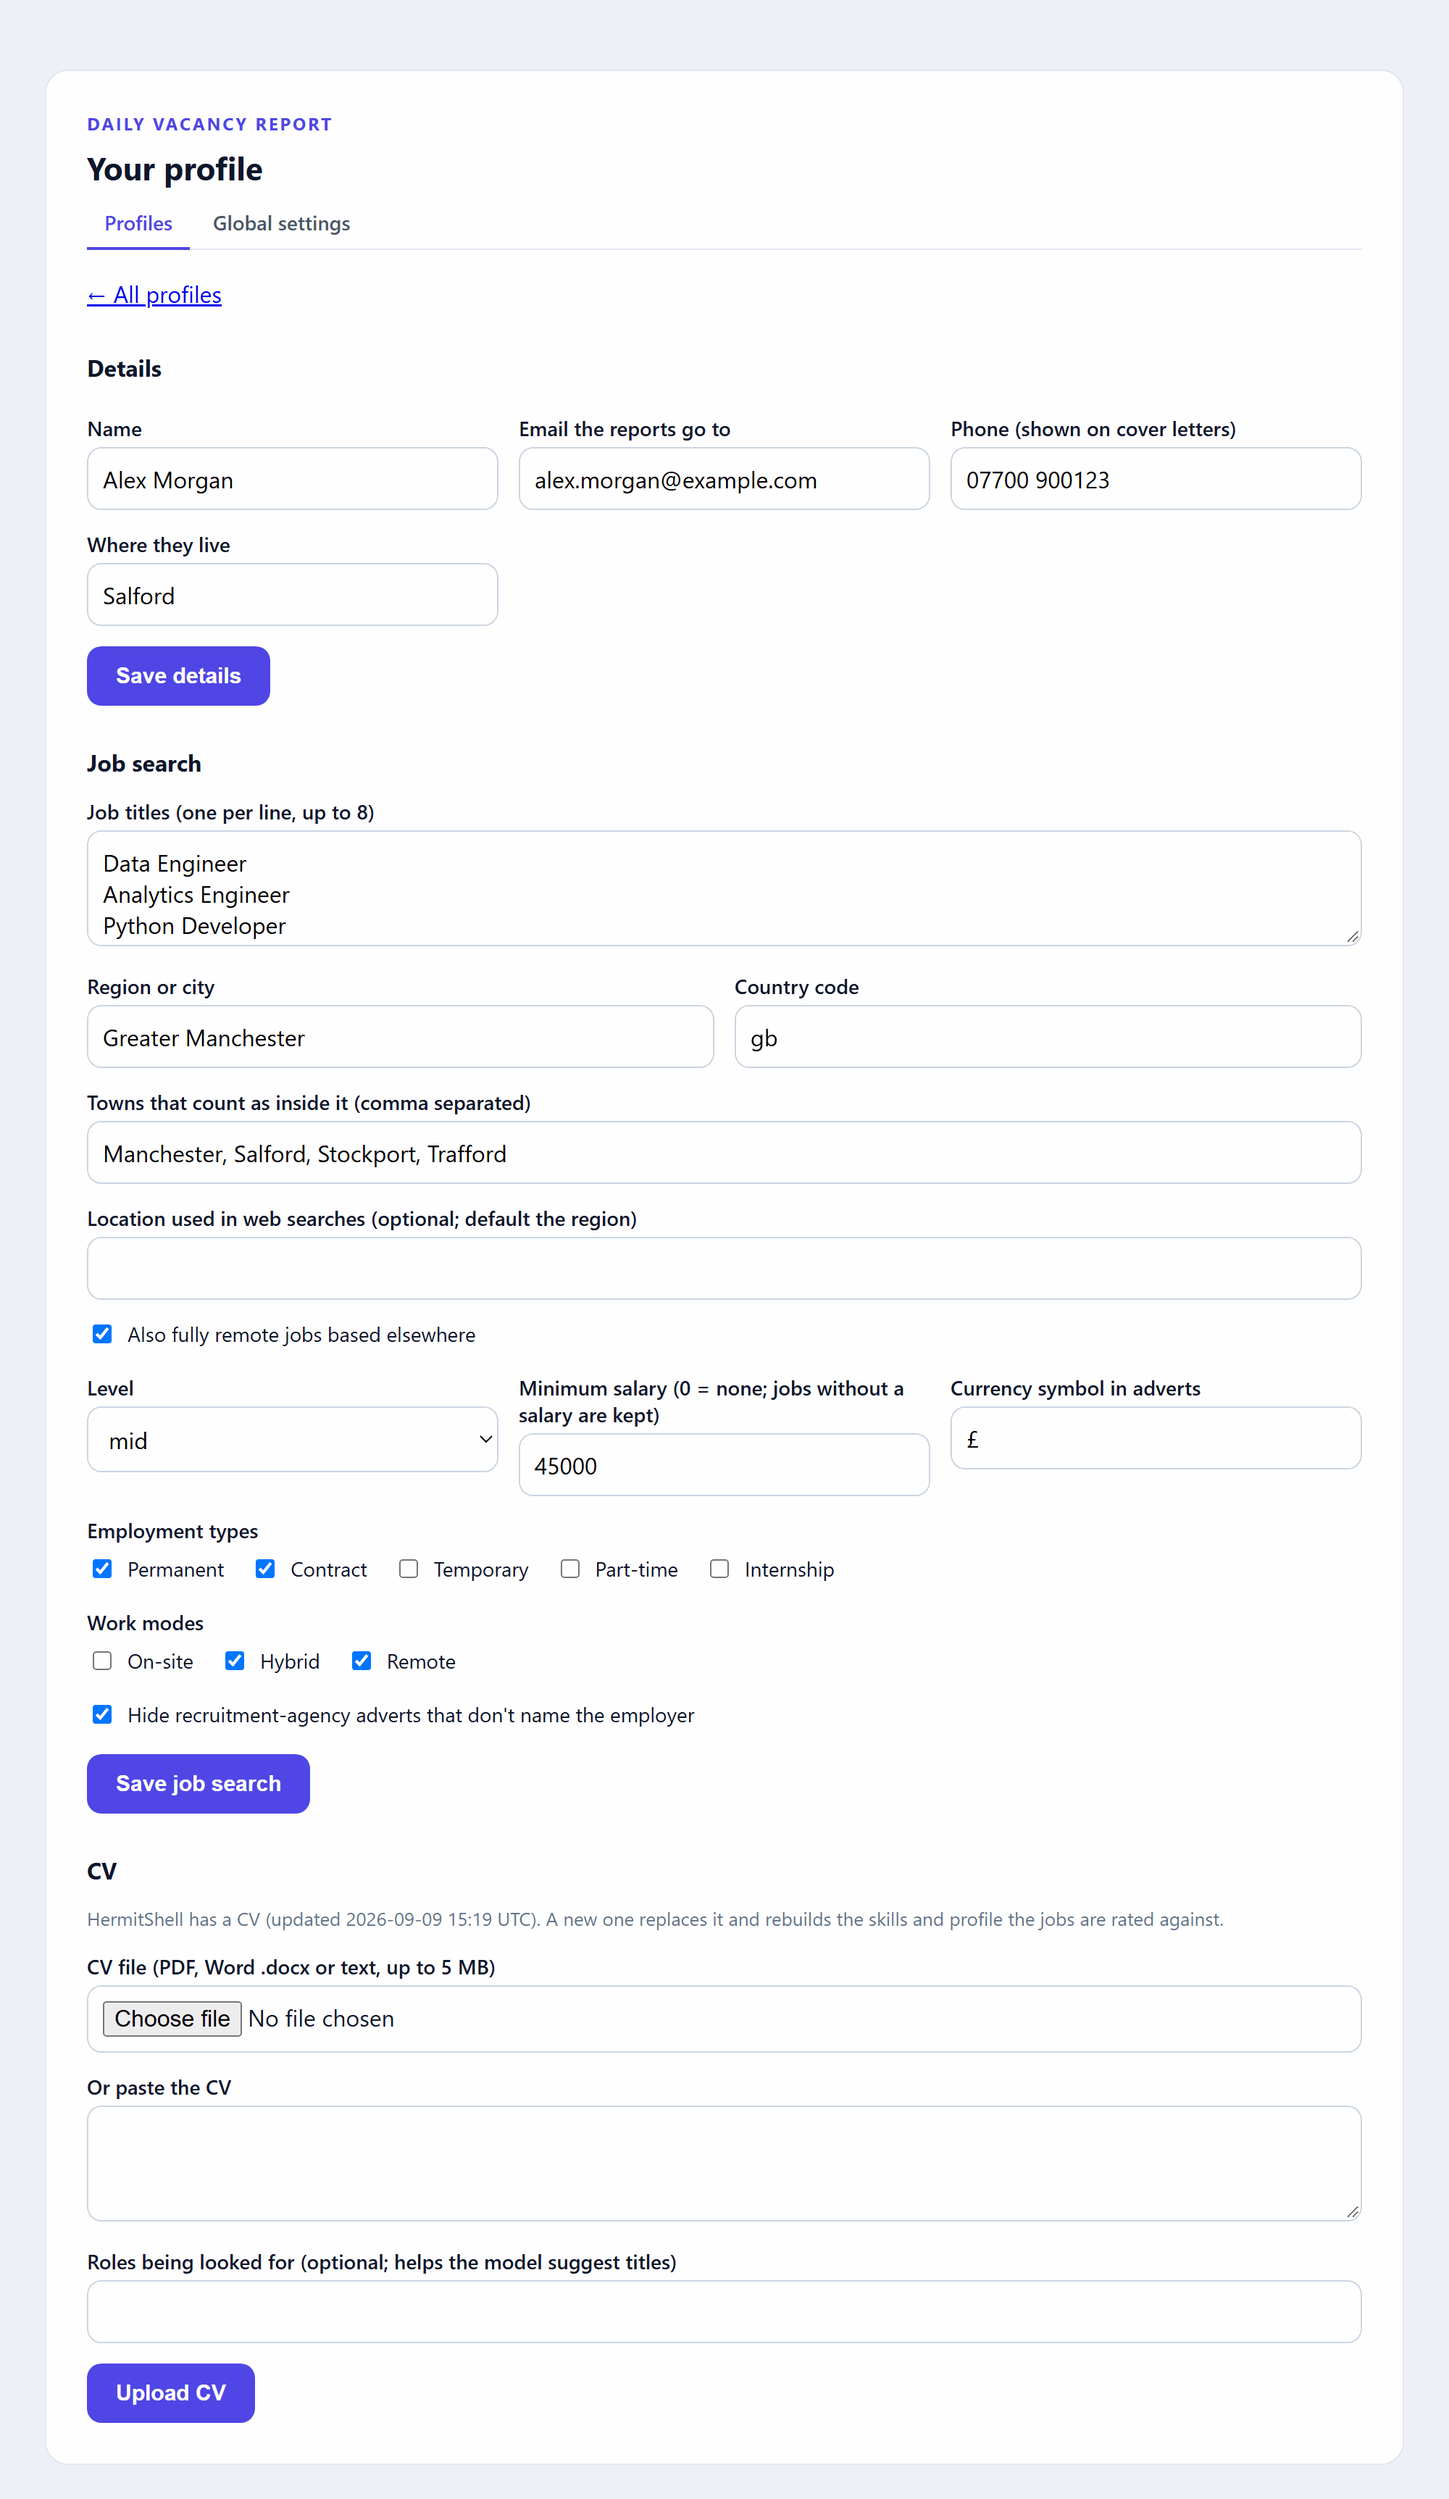
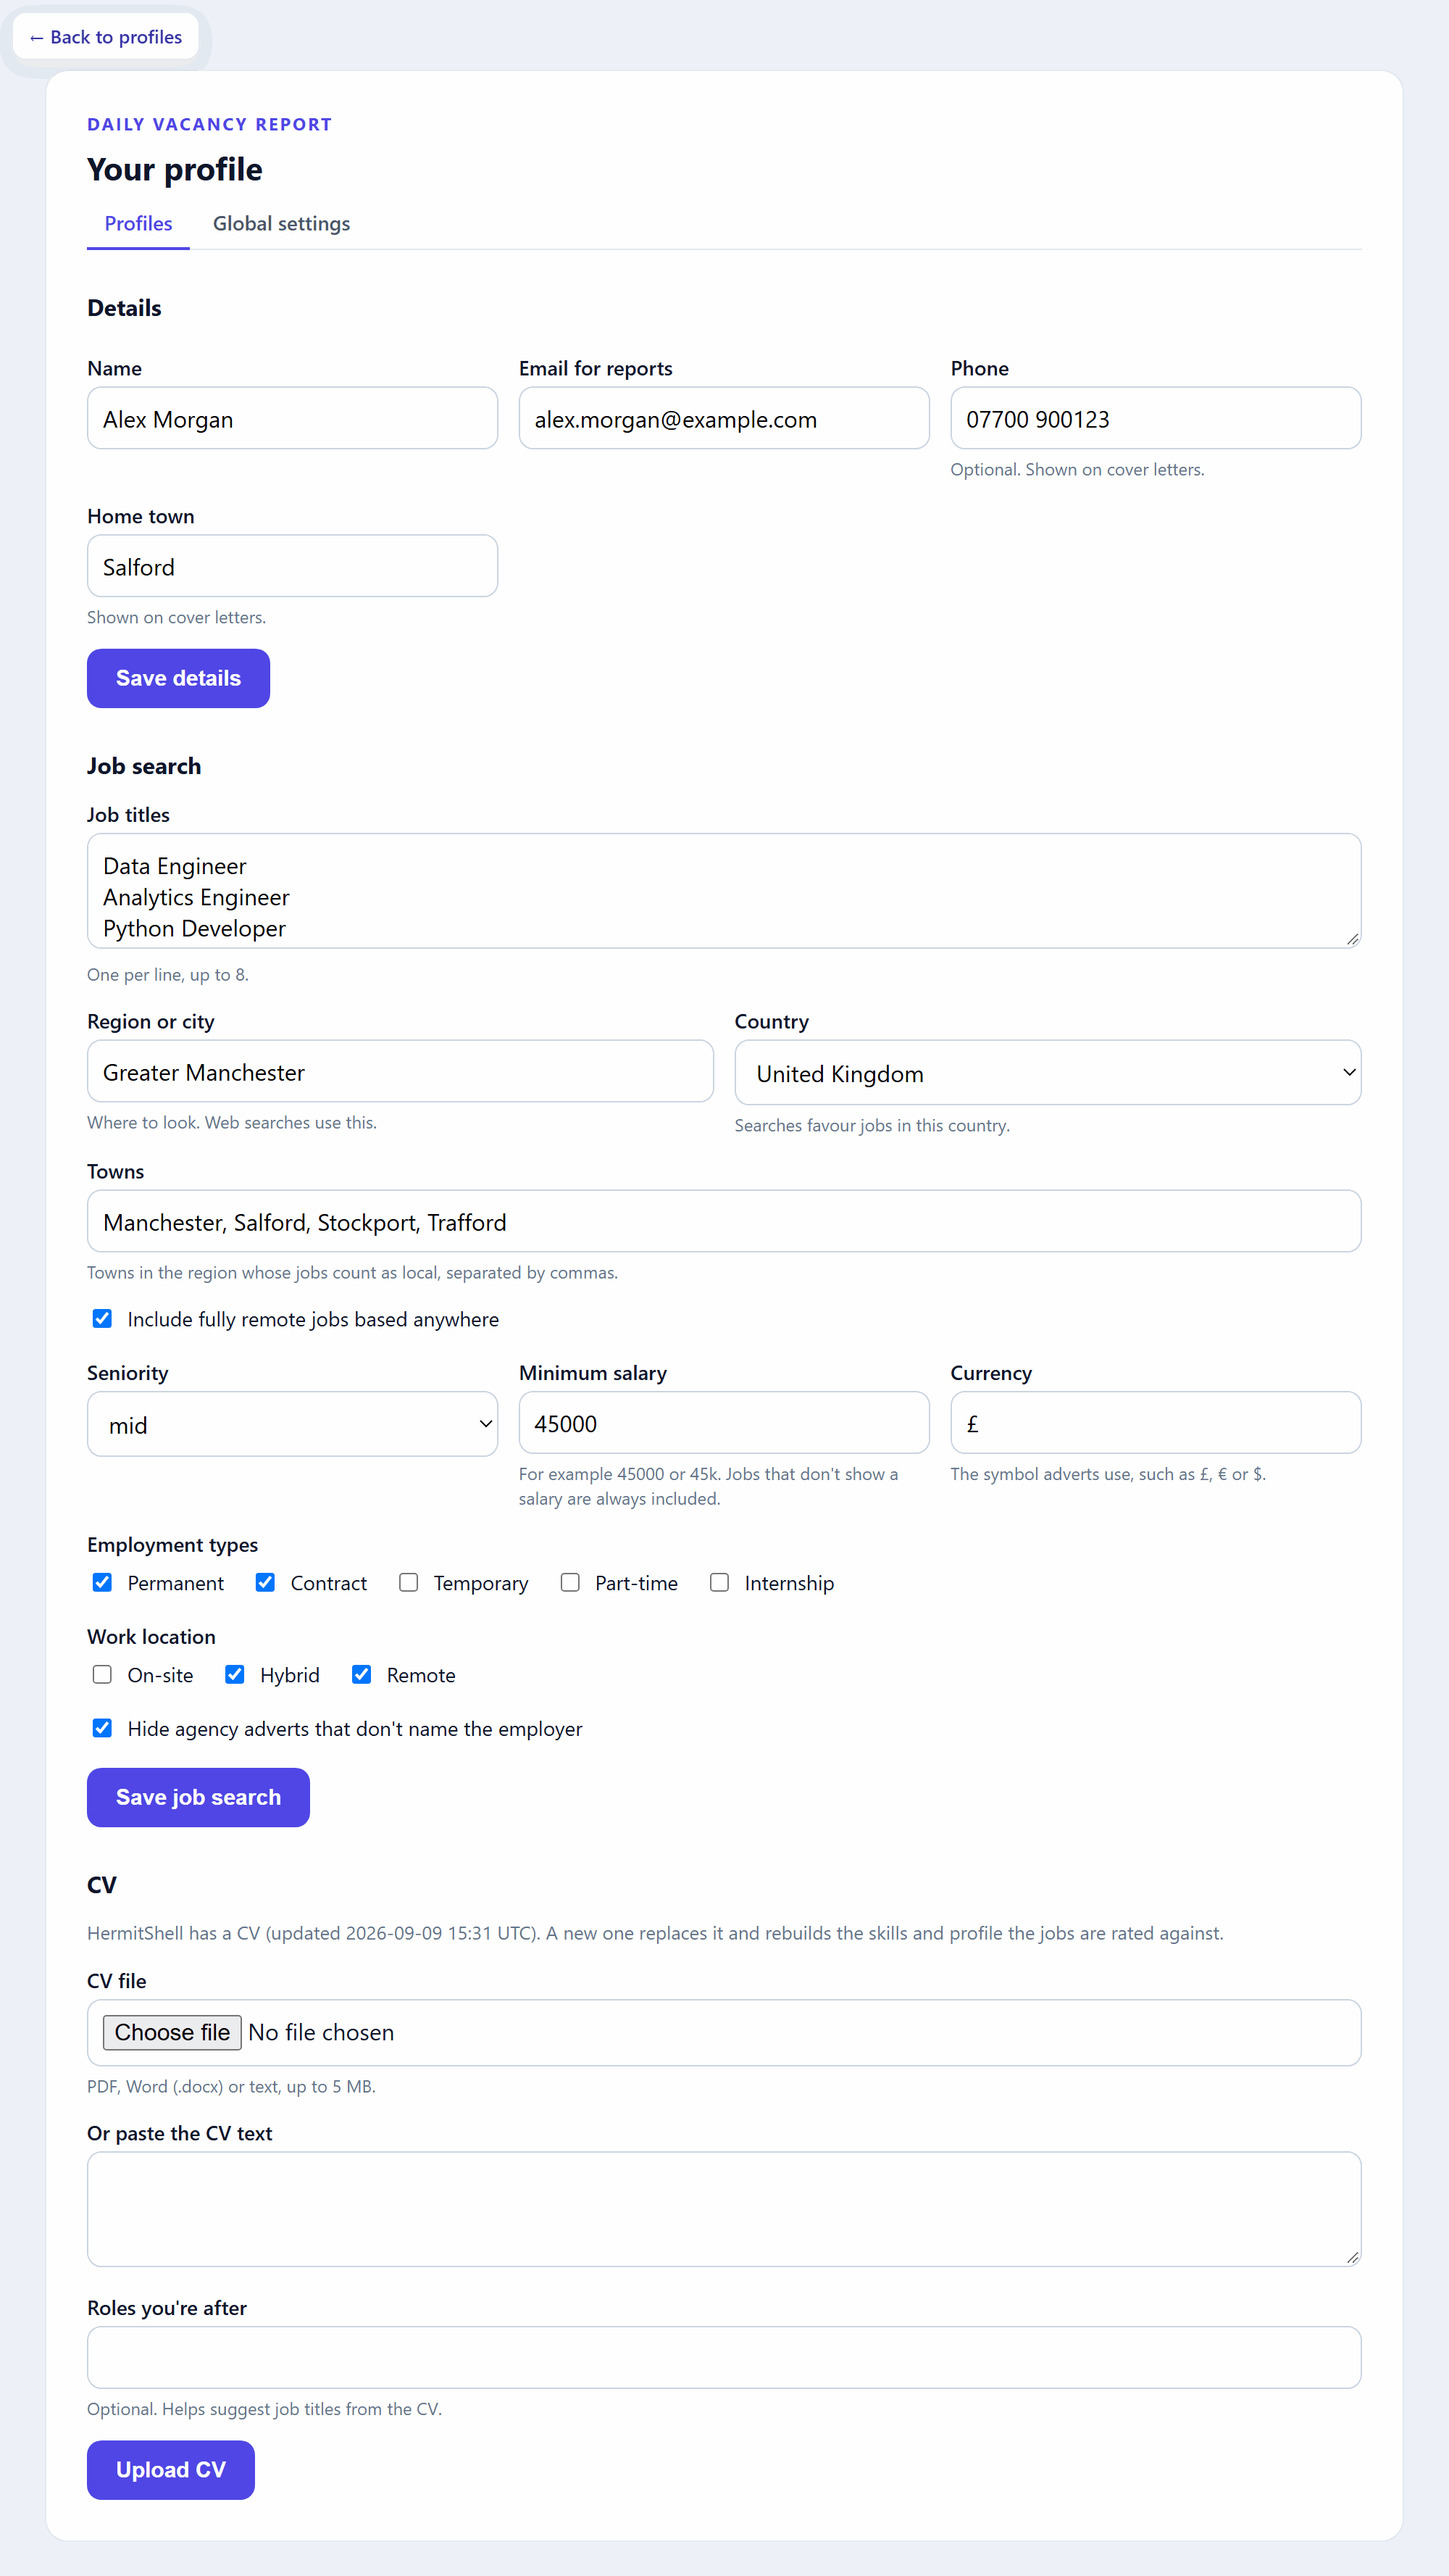
Document the simpler profile page and refresh its screenshots

diff --git a/docs/feedback-worker.md b/docs/feedback-worker.md
@@ -359,12 +359,17 @@ them.
 
 <img src="images/worker/admin-profile.png" alt="A profile's settings page" width="720">
 
-- **Details**: name, the email address their reports go to, phone and town (shown on cover
+**Back to profiles** stays in the top-left corner while you scroll. Each box has a short hint
+under it.
+
+- **Details**: name, the email address their reports go to, phone and home town (shown on cover
   letters). For you, the address is `ALERT_EMAIL`.
-- **Job search**: up to 8 job titles, region and the towns inside it, country, whether fully
-  remote jobs elsewhere count, level, minimum salary and currency, employment types, work modes
-  and whether to hide agency adverts that don't name the employer. Saving rebuilds the web search
-  queries and the title filter when the titles or location change.
+- **Job search**: up to 8 job titles, region or city (web searches use it), country (picked from a
+  list), the towns that count as local, whether fully remote jobs elsewhere count, seniority,
+  minimum salary (empty means no minimum; `45000`, `45k` and `£45,000` all work) and currency,
+  employment types, work location and whether to hide agency adverts that don't name the
+  employer. Saving rebuilds the web search queries and the title filter when the titles or
+  location change.
 - **CV**: upload a PDF, Word or text file, or paste it. HermitShell reads it, rebuilds the profile and
   skills the jobs are rated against, and emails a summary. Your previous `job_profile.md` and
   `cv_keywords.json` are kept as `.bak` copies.

diff --git a/docs/configuration.md b/docs/configuration.md
@@ -77,7 +77,8 @@ Full template: [`.env.example`](../.env.example).
 | --- | --- | --- |
 | `JOB_REGION_NAME` | none | Region or city you're job hunting in. Empty = no location filter |
 | `JOB_REGION_PLACES` | none | Comma-separated towns or areas that count as inside the region |
-| `JOB_SEARCH_COUNTRY` | none | Two-letter country code for searches (`gb`, `ie`, `us`...) |
+| `JOB_SEARCH_COUNTRY` | none | Two-letter country code for searches (`gb`, `ie`, `us`...). The dashboard picks it from a list of countries |
+| `JOB_SEARCH_LOCATION` | `JOB_REGION_NAME` | Place name put into web searches, when it should differ from the region. `.env` only: saving the job search on the dashboard clears it, so searches use the region |
 | `JOB_REMOTE_ANYWHERE` | `0` | `1` lets fully remote jobs through the region filter |
 | `JOB_LEVEL` | `any` | `junior`, `mid`, `senior`, `lead` or `any`. Sets the seniority penalties below |
 | `JOB_EMPLOYMENT_TYPES` | `Permanent,Contract,Temporary` | Types to keep: also `Full-time`, `Part-time`, `Internship`. Jobs that don't say are kept |

diff --git a/CHANGELOG.md b/CHANGELOG.md
@@ -8,6 +8,13 @@ using [Semantic Versioning](https://semver.org/).
 
 ### Added
 
+- **Simpler profile page.** Country is now a dropdown of countries by name instead of a
+  two-letter code box. The separate "Location used in web searches" box is gone: searches use
+  Region or city (a dashboard save clears `JOB_SEARCH_LOCATION`). "Towns that count as inside it
+  (comma separated)" is now just **Towns**. Labels are plain, with a short hint under each box
+  instead of text in brackets. The minimum salary box is empty for no minimum and accepts `£45,000`.
+  The "All profiles" link is replaced by a **Back to profiles** button that stays in the top-left
+  corner while you scroll. The Global settings labels got the same treatment.
 - **Global settings tab.** The email server and web search API keys have moved off the profiles
   list to their own **Global settings** page (`/admin/settings`), because they apply to the whole
   tool. **Profiles** and **Global settings** tabs sit at the top of every admin page. The setup

diff --git a/docs/screenshots.md b/docs/screenshots.md
@@ -339,8 +339,9 @@ HermitShell hasn't collected them.
 
 | Section | What it sets |
 | --- | --- |
-| Details | Name, the email address reports go to, phone and town (for cover letters) |
-| Job search | Job titles (up to 8), region and towns, country, remote elsewhere, level, minimum salary and currency, employment types, work modes, hiding unnamed agency adverts |
+| **Back to profiles** | Floats in the top-left corner while you scroll |
+| Details | Name, the email address reports go to, phone and home town (for cover letters) |
+| Job search | Job titles (up to 8), region or city (used in web searches), country from a list, towns, remote elsewhere, seniority, minimum salary (empty = none) and currency, employment types, work location, hiding unnamed agency adverts |
 | CV | A new CV file or pasted text; HermitShell rebuilds the profile and skills from it and emails a summary |
 
 ## Regenerating these images
